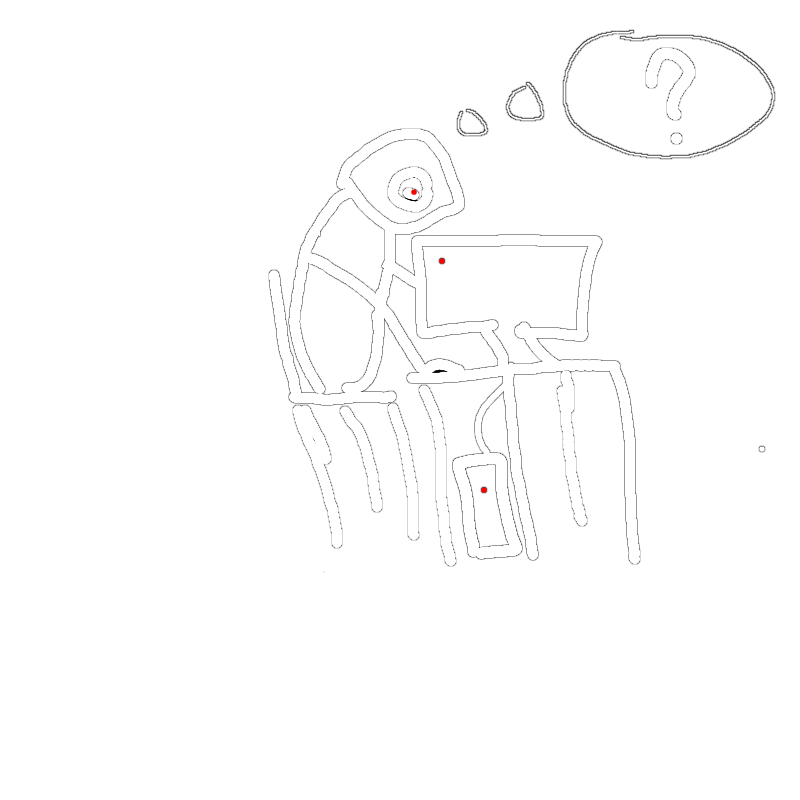
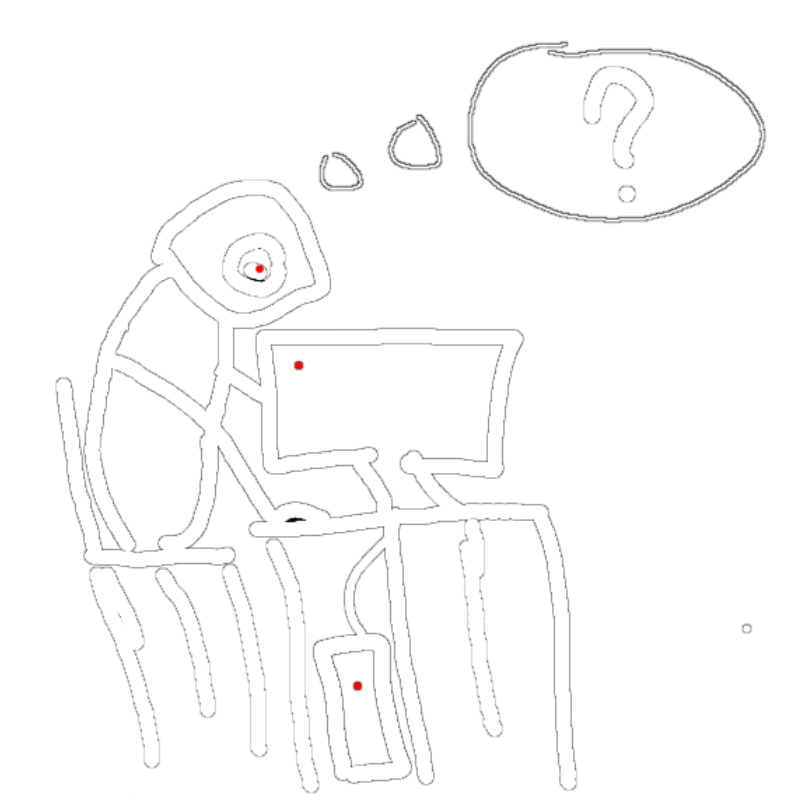
alpha 1.7.2
настройка, доработка, исправление ошибок

diff --git a/jolyne/media.css b/jolyne/media.css
@@ -255,7 +255,7 @@
 		width: 200%;
 	}
 	.image{/*задаю размер и позиционирую контейнер фотографии*/
-		width: 65vw;
+		width: 75vw;
 		height: 0vh;
 
 		top: 0%;
@@ -289,7 +289,7 @@
 		width: 105vw;
 		height: 250vh;
 
-		margin-left: -2vw;
+		margin-left: -3vw;
 		top: 110vh;
 	}
 	.story{
@@ -297,7 +297,7 @@
 
 		width: 80vw;
 
-		margin: 3vh 0 0 45vw;
+		margin: -3vh 0 0 45vw;
 	}
 	.ficha::before{
 		content: "";
@@ -321,14 +321,14 @@
 	}
 	.stars{
 		width: 90%;
-		height: 230vh;
+		height: 250vh;
 	}
 	@keyframes flyStars{
 		from{
 			left: -10%;
 		}
 		50%{
-			left: -10.1%;
+			left: -11%;
 		}
 		to{
 			left: -10%;
@@ -338,26 +338,26 @@
 		width: 80vw;
 
 		position: relative;
-		top: -215vh;
+		top: -205vh;
 		left: 8vw;
 	}
 	.rost{
 		width: 90vw;
 		height: 45vh;
 
-		top: 40vh;
+		top: 70vh;
 		left: 2vw;
 	}
 	.whoIm:nth-child(2){
 		position: relative;
-		top: 65vh;
+		top: 75vh;
 	}
 	.pc{
-		width: 120vw;
-		height: 60vh;
+		width: 80vw;
+		height: 40vh;
 
-		top: 200vh; /*баю бай, засыпай, бейби попадают в рай, не кури, не киряй, не кури, не киряй...*/
-		left: -25vw;
+		top: 210vh; /*баю бай, засыпай, бейби попадают в рай, не кури, не киряй, не кури, не киряй...*/
+		left: 10vw;
 	}
 }
 

diff --git a/jolyne/style.css b/jolyne/style.css
@@ -323,9 +323,6 @@ path{ /*Задаю стили и появление квадрата*/
 .rost, .pc{
 	position: absolute;
 
-	width: 25vw;
-	height: 50vh;
-
 	transition: all 30s ease;
 }
 .rost:hover{
@@ -335,10 +332,16 @@ path{ /*Задаю стили и появление квадрата*/
 	transform: rotateY(180deg) rotateX(180deg) scale(0);
 }
 .rost{
+	width: 25vw;
+	height: 50vh;
+
 	top: 20vh;
 	left: 68vw;
 }
 .pc{
+	width: 20vw;
+	height: 40vh;
+
 	top: 50vh;
-	left: 40vw;
+	left: 45vw;
 }
